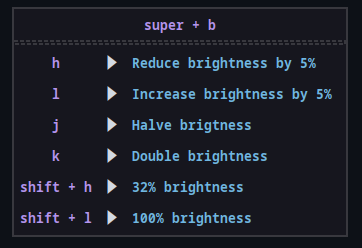
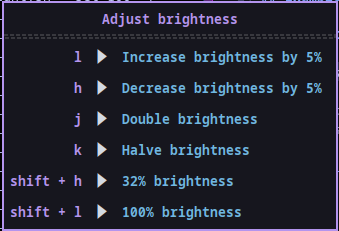
Update readme

diff --git a/README.md b/README.md
@@ -11,7 +11,7 @@ When a chain is active, sxhkd-whichkey will show the continuations of the curren
 An sxhkd status-fifo is required for this to work. A fifo can be created with `mkfifo <STATUS_FIFO>`. sxhkd must be started with `sxhkd -s <STATUS_FIFO>`.
 
 That's it! By default, the description of each rule in the GUI window is the command which the hotkey will execute.
-To improve sxhkd-whichkey experience, I recommend enriching your sxhkdrc with comments.
+To improve sxhkd-whichkey experience, I recommend enriching your sxhkdrc with comments. If the line before a binding contains a comment, that comment will be interpreted as the description of the binding, and will show up in the UI. Binding descriptions support the same replacement mechanisms as commands, so each variant in a binding can have its own description. A description can optionally be preceeded by a title; this title will appear at the top of the sxhkd-whichkey window. If no title is specified, the active chain will be used instead. See the examples for more information.
 
 ## Running
 
@@ -25,73 +25,21 @@ cargo run -- -s <STATUS_FIFO>
 
 ### Brightness
 
-I use this hotkey for controlling brightness. Notice the line comments in each rule. The placeholder `$(2)` is expanded to the second argument (0-indexed) in the expanded command.
-
+I use this hotkey for controlling brightness. 
 ```bash
-super + b : { h, l, j, k, shift + h, shift + l }
-  ~/.config/sxhkd/scripts/backlight.sh {   \
-     --dec 5 # Reduce brightness by $(2)%,\
-     --inc 5 # Increase brightness by $(2)%,\
-     --halve # Halve brigtness,\
-     --double # Double brightness,\
-     --set 32 # $(2)% brightness,\
-     --set 100 # $(2)% brightness \
-    }
+# Adjust brightness
+# {Increase,Decrease} brightness by 5%
+super + b : {l,h} 
+  ~/.config/sxhkd/scripts/backlight.sh {--inc 5,--dec 5}
+
+# {Double,Halve} brightness
+super + b : {j,k} 
+  ~/.config/sxhkd/scripts/backlight.sh {--halve,--double}
+
+# {32%,100%} brightness
+super + b : { shift + h, shift + l }
+  ~/.config/sxhkd/scripts/backlight.sh {--set 32,--set 100}
 ```
 
 ![brightness](./doc/screenshots/brightness.png)
 
-### Argument Mapping
-
-Here is a (maybe contrived) example of mapping positional arguments to strings.
-A mapping is of the form `name:value` where name and value can optionally be quoted. Mappings must precede the description. During parsing, when something is encountered which is not a valid mapping, the rest of the comment is assumed to be the description.
-
-```bash
-super + { space, shift + space } : {1-3}
-  bspc {desktop -f, node -d} '^{1-3}' #\
-  ^1:first ^2:second ^3:third \
-  desktop:"Switch to $(3) workspace" \
-  node:"Move node to $(3) workspace" \
-  $(1)
-```
-
-| desktop -f                                    | node -d                                 |
-| --------------------------------------------- | --------------------------------------- |
-| ![desktop -f](./doc/screenshots/desktopf.png) | ![node -d](./doc/screenshots/noded.png) |
-
-In this case, the flags `^1/^2/^3` are mapped to `first/second/third`, and the flags `desktop/node` are mapped to a string which references the 3rd positional argument. The actual description is simply `$(1)`, which is expanded to the first positional argument (`node/desktop`), which was mapped to a string which itself contains expansions.
-
-# Gotchas
-
-- Line comments are not really line comments. They are sent verbatim to the shell by sxhkd.
-- Line breaks are not valid in an sxhkd rule, so there is no way to terminate a line comment, except by a comma or `}` which terminates the rule.
-- sxhkd interprets commas in a comment as a chord separator if it appears within curly braces, even if commented. To use a comma in a description in braces, it must be escaped. Example:
-
-```bash
-# Consider this rule
-super + {a,b}
-    echo { "hello a" # a comment, including a comma \
-    echo "hello b"\
-  }
-
-# sxhkd expands this rule like this:
-super + a
-  echo "hello a" # a comment
-super + b
-  including a comma echo "hello b"
-```
-
-But by escaping the comma, we get:
-
-```bash
-super + {a,b}
-    echo { "hello a" # a comment\, including an escaped comma \
-    echo "hello b"\
-  }
-
-# sxhkd expands this rule like this:
-super + a
-  echo "hello a" # a comment, including an escaped comma
-super + b
-  echo "hello b"
-```
